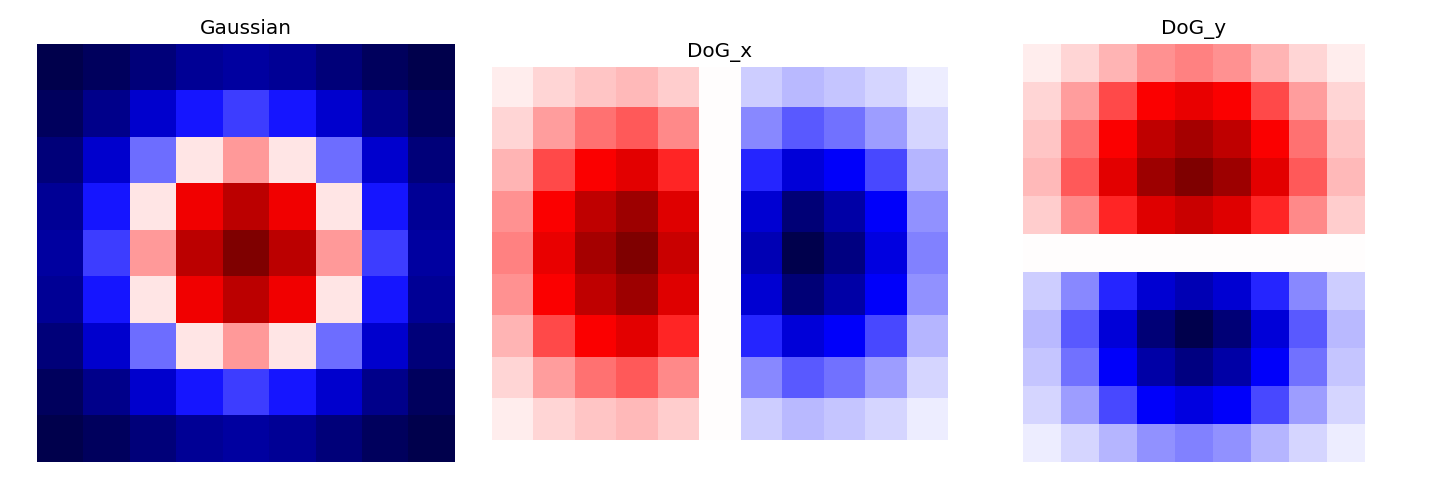
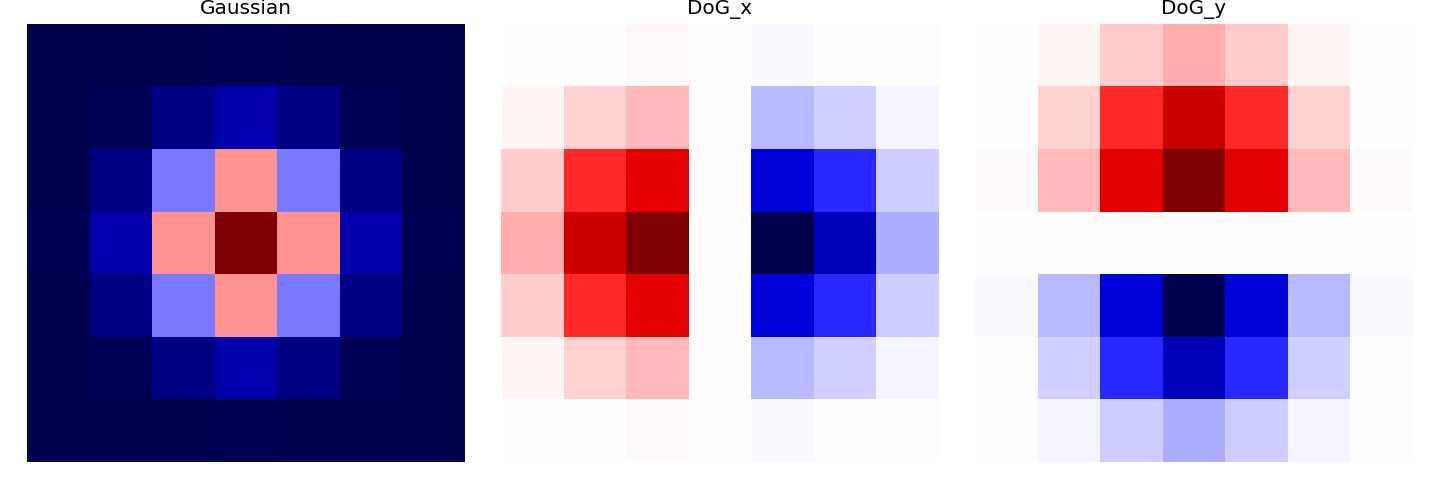
images

diff --git a/styles.css b/styles.css
@@ -310,3 +310,19 @@ footer{
   color: var(--ink-soft);
   text-align: left;
 }
+.results-table { 
+    width: 100%; 
+    border-collapse: collapse; 
+    margin: 30px 0; 
+    font-size: 0.9rem;
+  }
+.results-table th, .results-table td { 
+  border: 1px solid var(--line); 
+  padding: 12px; 
+  text-align: center; 
+}
+.results-table th { 
+  background-color: var(--paper-dim); 
+  font-family: 'IBM Plex Mono', monospace; 
+  font-weight: 500;
+}
